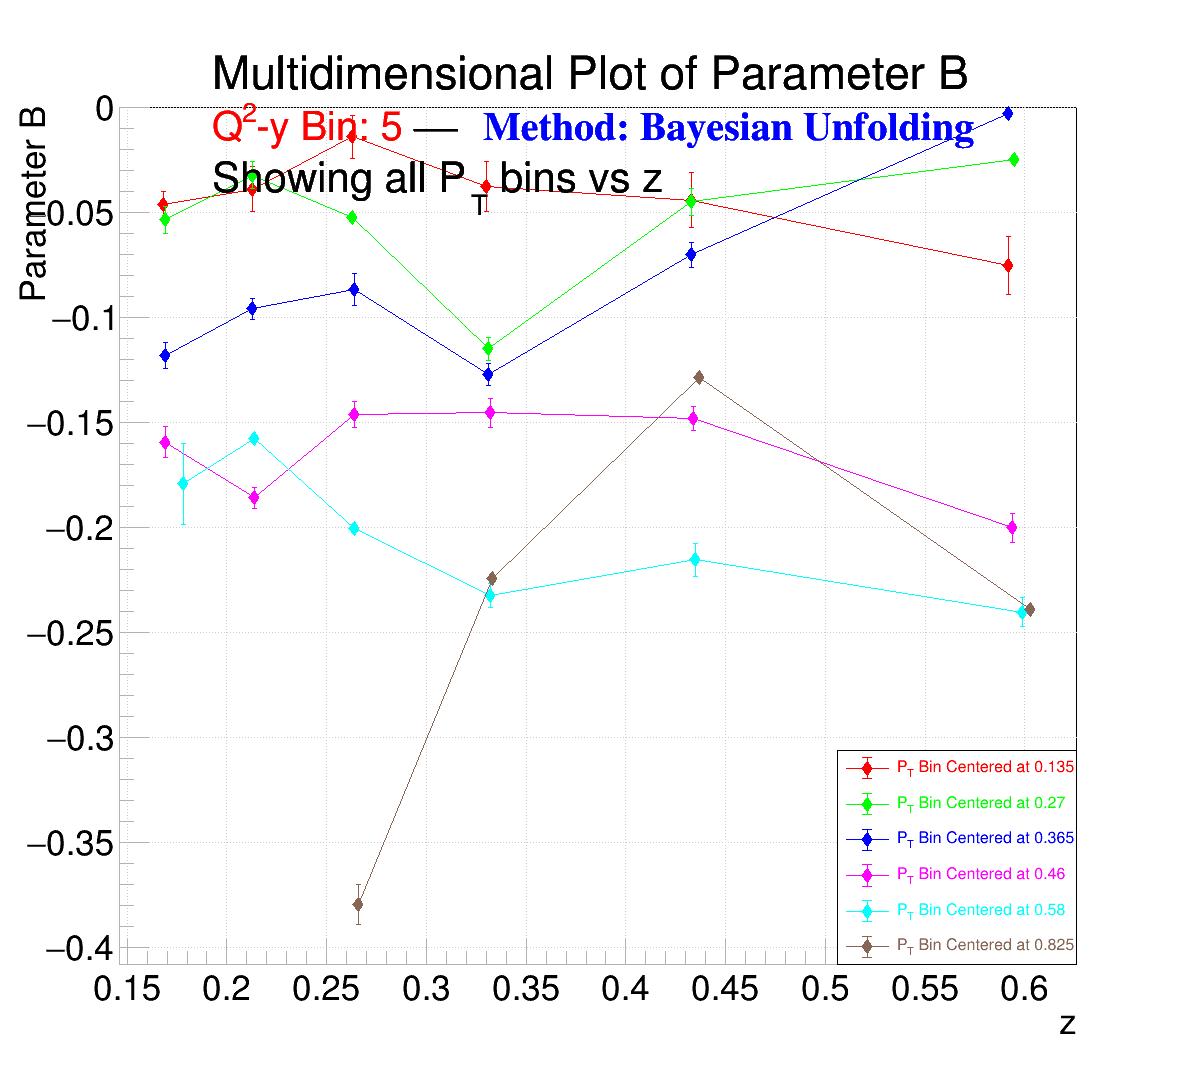
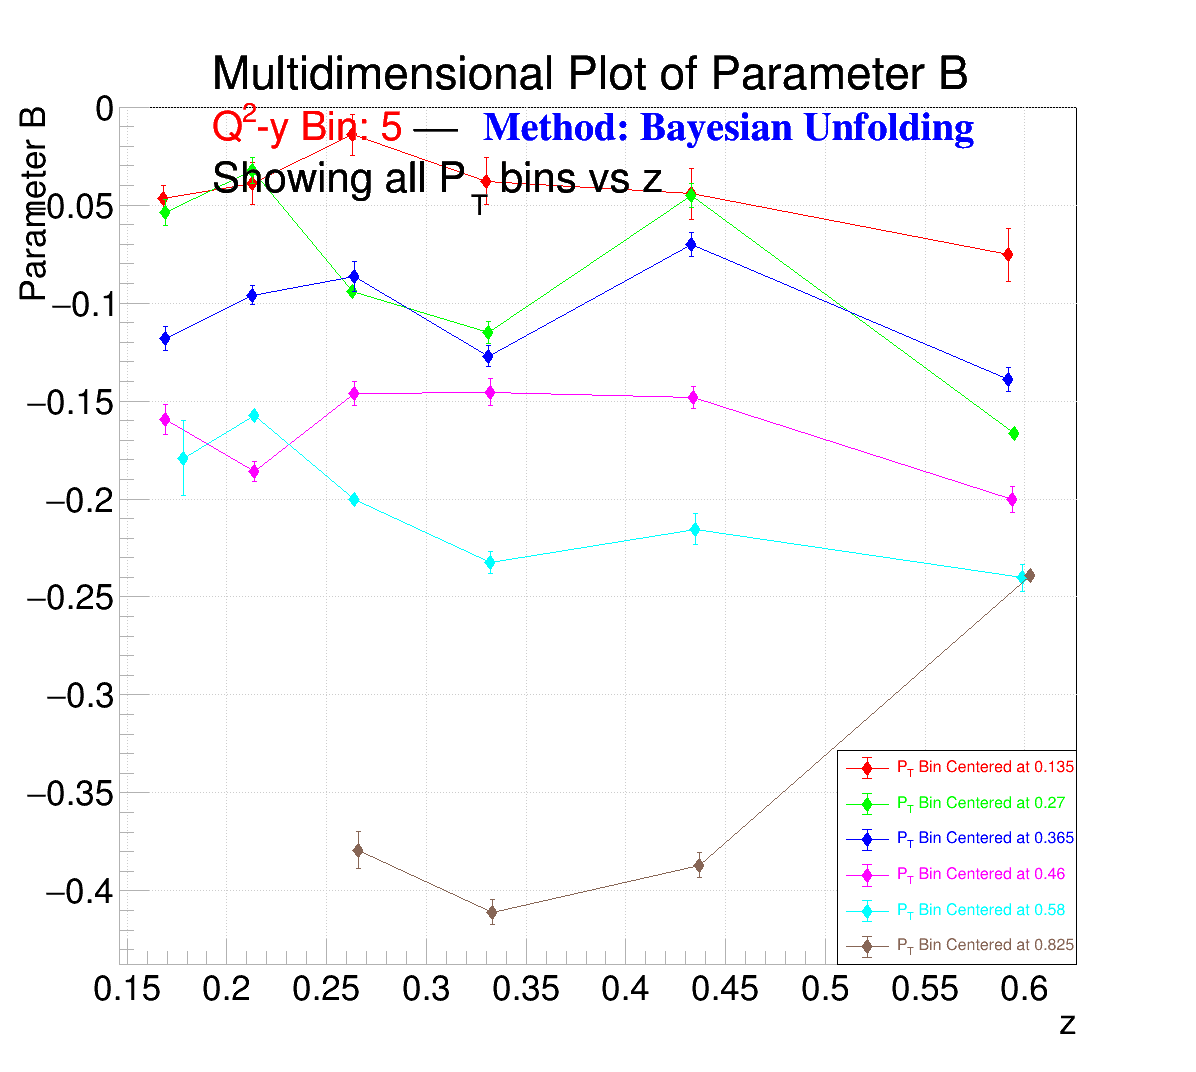
See README.md

diff --git a/Interactive_Unfolding_Page_Updated.html b/Interactive_Unfolding_Page_Updated.html
@@ -28,10 +28,7 @@
                 }
             }
             if(Image_Version.includes("Current")){
-                // currentFolderVersion = "All_Images_Interactive_Webpage_SIDIS_richcap/SIDIS_python_Images_From_Gen_Cuts_V7_8_30_2023/Unfolding_Images/";
-                // currentFolderVersion = "All_Images_Interactive_Webpage_SIDIS_richcap/SIDIS_python_Images_From_Gen_Cuts_V8_9_7_2023/Unfolding_Images/";
-                // currentFolderVersion = "All_Images_Interactive_Webpage_SIDIS_richcap/SIDIS_python_Images_From_Gen_Cuts_V8_10_3_2023/Unfolding_Images/";
-                currentFolderVersion = "All_Images_Interactive_Webpage_SIDIS_richcap/SIDIS_python_Images_From_Gen_Cuts_V8_10_11_2023/Unfolding_Images/";
+                currentFolderVersion = "All_Images_Interactive_Webpage_SIDIS_richcap/SIDIS_python_Images_From_Gen_Cuts_V8_10_30_2023/Unfolding_Images/";
             }
             if(Image_Version.includes("Old_V4")){
                 currentFolderVersion = "All_Images_Interactive_Webpage_SIDIS_richcap/SIDIS_python_Images_From_Gen_Cuts_V2_Fixed_6_21_2023/Unfolding_Images/";
@@ -479,20 +476,43 @@
             var Histo_2D_Smear     = document.getElementById("Histo_2D_Smear");
             
             var Histo_2D_Cut = "cut_Complete_SIDIS"
-            if((Histo_2D_Method.value).includes("gdf")){
-                Histo_2D_Cut = "no_cut";
+            if((Histo_2D_Element.value).includes("Q2")){
+                // For new bin tests
+                if((Histo_2D_Method.value).includes("gdf")){
+                    Histo_2D_Cut = "no_cut";
+                }
+                currentName = currentFolderVersion.replace("Unfolding_Images", "Histo_2D_Binning_Tests") + "/Histo_2D_" + Histo_2D_Method.value + "_" + Histo_2D_Cut + Histo_2D_Smear.value + Histo_2D_Element.value + Histo_2D_Q2_y_Bin.value + ".png"
+                currentName = currentName.replace("Smeared", "smear")
+                currentName = currentName.replace("//", "/")
+
+                currentName_z_pT = currentFolderVersion.replace("Unfolding_Images", "Histo_2D_Binning_Tests") + "/Q2_y_Bin_" + Histo_2D_Q2_y_Bin.value + "/Histo_2D_" + Histo_2D_Method.value + "_" + Histo_2D_Cut + Histo_2D_Smear.value + "_Q2_y_Bin_" + Histo_2D_Q2_y_Bin.value + "_z_vs_pT_New_Bin_" + Histo_2D_z_pT_Bin.value + ".png"
+                currentName_z_pT = currentName_z_pT.replace("Smeared", "smear")
+                currentName_z_pT = currentName_z_pT.replace("//", "/")
+                currentName_z_pT = currentName_z_pT.replace("__", "_")
+
+                document.images.pic3.src = currentName_z_pT;
             }
+            else{
+                // For sector tests
+                // currentName = currentFolderVersion.replace("Unfolding_Images", "Histo_2D_Sector_Tests")    + "/Histo_2D_bbb_" + Histo_2D_Cut + Histo_2D_Smear.value + "_Q2_y_Bin_" + Histo_2D_Q2_y_Bin.value + "_z_pT_Bin_" + Histo_2D_z_pT_Bin.value + Histo_2D_Element.value + ".png"
+                currentName = currentFolderVersion.replace("Unfolding_Images", "Histo_2D_Sector_Tests")    + "/Histo_2D_bbb_" + Histo_2D_Cut + "_no_smear_Q2_y_Bin_" + Histo_2D_Q2_y_Bin.value + "_z_pT_Bin_" + Histo_2D_z_pT_Bin.value + Histo_2D_Element.value + ".png"
+                currentName = currentName.replace("Smeared", "smear")
+                currentName = currentName.replace("//", "/")
 
-            currentName = currentFolderVersion.replace("Unfolding_Images", "Histo_2D_Binning_Tests") + "/Histo_2D_" + Histo_2D_Method.value + "_" + Histo_2D_Cut + Histo_2D_Smear.value + Histo_2D_Element.value + Histo_2D_Q2_y_Bin.value + ".png"
-            currentName = currentName.replace("Smeared", "smear")
-            currentName = currentName.replace("//", "/")
+                currentName_el = currentFolderVersion.replace("Unfolding_Images", "Histo_2D_Sector_Tests") + "/Histo_2D_bbb_" + Histo_2D_Cut + Histo_2D_Smear.value + "_Q2_y_Bin_" + Histo_2D_Q2_y_Bin.value + "_z_pT_Bin_" + Histo_2D_z_pT_Bin.value + (Histo_2D_Element.value).replace("pip", "el") +  ".png"
+                currentName_el = currentName_el.replace("Smeared", "smear")
+                currentName_el = currentName_el.replace("//", "/")
+                currentName_el = currentName_el.replace("__", "_")
 
-            currentName_z_pT = currentFolderVersion.replace("Unfolding_Images", "Histo_2D_Binning_Tests") + "/Q2_y_Bin_" + Histo_2D_Q2_y_Bin.value + "/Histo_2D_" + Histo_2D_Method.value + "_" + Histo_2D_Cut + Histo_2D_Smear.value + "_Q2_y_Bin_" + Histo_2D_Q2_y_Bin.value + "_z_vs_pT_New_Bin_" + Histo_2D_z_pT_Bin.value + ".png"
-            currentName_z_pT = currentName_z_pT.replace("Smeared", "smear")
-            currentName_z_pT = currentName_z_pT.replace("//", "/")
-            currentName_z_pT = currentName_z_pT.replace("__", "_")
+                document.images.pic3.src = currentName_el;
 
-            document.images.pic3.src = currentName_z_pT;
+                document.images.pic1.width  = 1070;
+                document.images.pic1.height = 800;
+
+                document.images.pic3.width  = 1070;
+                document.images.pic3.height = 800;
+
+            }
 
             return currentName;
         }
@@ -773,7 +793,7 @@
                 if(currentFolderVersion.includes("SIDIS_python_Images_From_Gen_Cuts_V8") || currentFolderVersion.includes("SIDIS_python_Images_From_Gen_Cuts_V7") || currentFolderVersion.includes("SIDIS_python_Images_From_Gen_Cuts_V7_8_11_2023") || currentFolderVersion.includes("SIDIS_python_Images_From_Gen_Cuts_V6_7_19_2023") || currentFolderVersion.includes("SIDIS_python_Images_From_Gen_Cuts_V6_8_2_2023")){
                     currentName = currentName.replace("RooUnfold_bayes", "Bayesian")
                     currentName = currentName.replace("RooUnfold_svd",   "SVD")
-                    if(! currentName.includes("Histo_2D_Binning_Tests")){
+                    if(! currentName.includes("Histo_2D_Binning_Tests") && ! currentName.includes("Histo_2D_Sector_Tests")){
                         currentName = currentName.replace("_smear",      "_Smeared")
                     }
                 }
@@ -1485,7 +1505,7 @@
                                             <psmall id="psmall" font="5px">Update Version:  </psmall>
                                             <select onchange="change_picture_fit_richcap();" id="Image_Version" name="Image_Version">
                                                 <optgroup label="Current Version">
-                                                    <option value="Current" title="Last Updated on 10-11-2023">Latest Version</option>
+                                                    <option value="Current" title="Last Updated on 10-30-2023">Latest Version</option>
                                                     <!-- <option value="Current_gen_cut">Latest (gen cut) Version</option> -->
                                                     <!-- <option value="Current_y_bin_Extra">Extra Parameter Version</option> -->
                                                 </optgroup>
@@ -1498,6 +1518,7 @@
                                                     <!-- <option value="Sim_y_bin_Extra">Unfolding Test (Extra Pars)</option> -->
                                                 </optgroup>
                                                 <optgroup label="Older Versions">
+                                                    <option value="All_Images_Interactive_Webpage_SIDIS_richcap/SIDIS_python_Images_From_Gen_Cuts_V8_10_11_2023/Unfolding_Images/">As of 10-30-2023</option>
                                                     <option value="All_Images_Interactive_Webpage_SIDIS_richcap/SIDIS_python_Images_From_Gen_Cuts_V8_10_3_2023/Unfolding_Images/">As of 10-10-2023</option>
                                                     <option value="All_Images_Interactive_Webpage_SIDIS_richcap/SIDIS_python_Images_From_Gen_Cuts_V8_9_7_2023/Unfolding_Images/" >As of 10-2-2023</option>
                                                     <option value="All_Images_Interactive_Webpage_SIDIS_richcap/SIDIS_python_Images_From_Gen_Cuts_V7_8_30_2023/Unfolding_Images/">As of 9-5-2023</option>
@@ -1600,7 +1621,8 @@
                                     <p font="450px">Select Variables:</p>
                                     <select onchange="change_picture_fit_richcap();" id="Histo_2D" name="Histo_2D" />
                                         <optgroup label="Select which variables to plot:">
-                                            <option value="_Q2_vs_y_New_Bin_">Q2 vs y (New Test Bins)</option>
+                                            <option value="_Q2_vs_y_New_Bin_" title="Shows examples of the (potential) new version of the kinematic binning schemes">New Test Bins</option>
+                                            <option value="_pipPhi_vs_phi_h"  title="Shows examples of the Acceptance Corrected phi_h distributions in each particle sector to search for the origin of the additional modulations">Test of Sector Dependence</option>
                                         </optgroup>
                                     </select><br/><br/>
                                 </form> 
@@ -1664,7 +1686,7 @@
 
                                         <form id="z-pT Bin Form" name="z_pT_bin_form">
                                             <p font="450px" id="z-pT Bin Title">Select the z-P<sub>T</sub> Bin:</p>
-                                            <select onchange="change_picture_fit_richcap(); table_bin_numbers();" id="z-pT Bin" name="z_pT_bin" />
+                                            <select onchange="change_picture_fit_richcap(); table_bin_numbers();" id="z-pT Bin" name="z_pT_bin"/>
                                                 <optgroup label="Checking All z-PT Bins">
                                                     <option value="All">Plot All Bins Together</option>
                                                 </optgroup>

diff --git a/README.md b/README.md
@@ -8,6 +8,13 @@ This README.md file contains update notes and links related to the work shown in
 * Link to this webpage's Github page: https://github.com/RichCap/Interactive_Webpage_SIDIS_richcap_Updated
 
 ## Updates/Notes
+* On 10-30-2023:
+    * Added new versions of images
+        * Improved fits for more reliable Parameter plots (mainly in Q2-y bins 1, 2, 5, and 17)
+        * Some images with particularly bad fits (when shown with the "Plot All Bins Together" option) will be highlighted in red
+            * Meant to help identify plots that need help to improve the fits in future versions (work-in-progress)
+
+
 * On 10-11-2023:
     * Added the image folder(s) back to the GitHub repository
     * Added link to this repository on the webpage (replaced link to older version of the page which is still in this repository)
